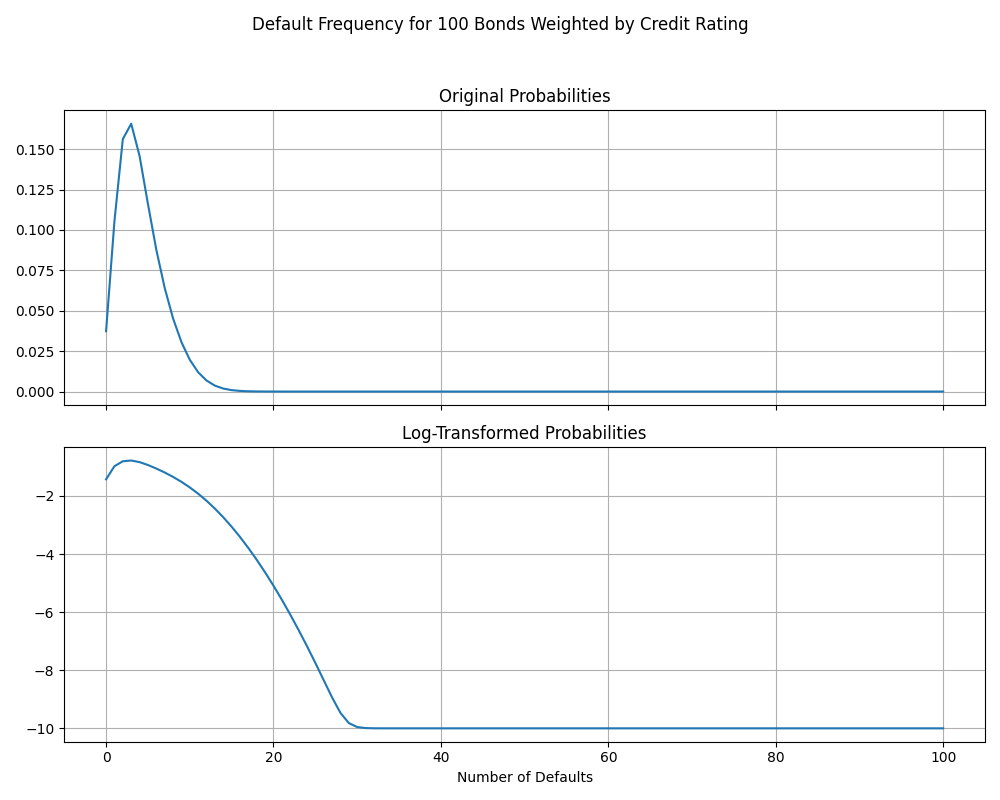
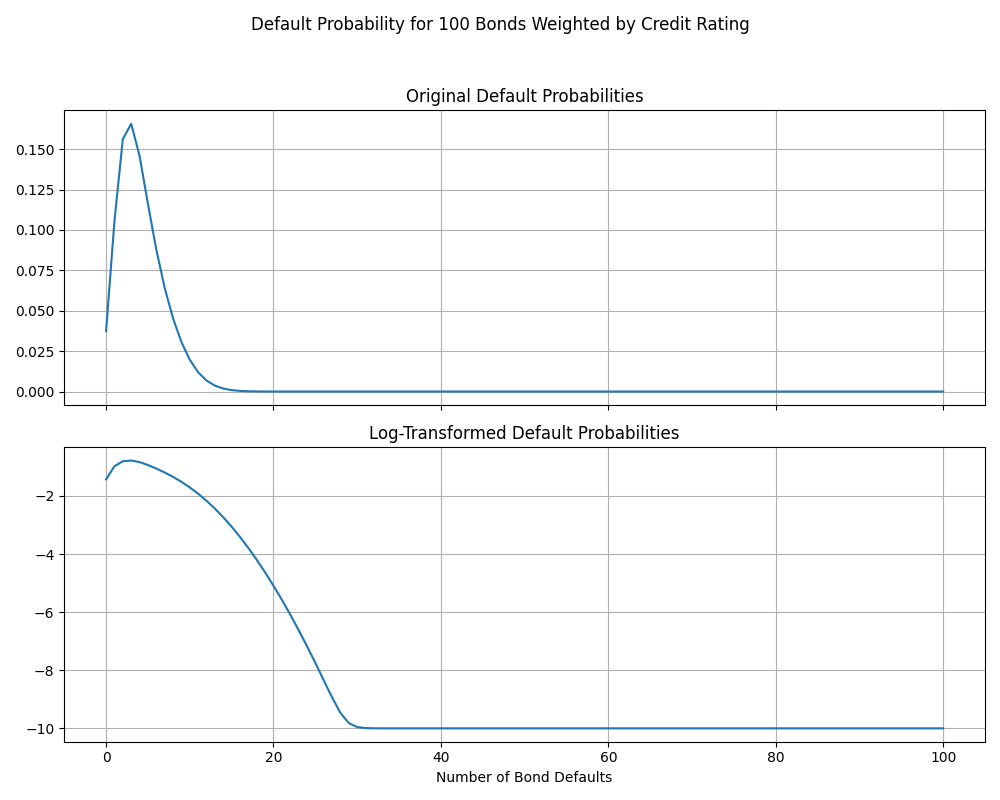
Updated BondDefaults Module and Output

diff --git a/BondDefaults.py b/BondDefaults.py
@@ -9,23 +9,21 @@ class BondDefaults:
         self.n_bonds = n_bonds
 
     def total_default_probability(self) -> list[tuple[int,float]]:
-        r_values = list(range(self.n_bonds + 1))
-        
-        #take weighted defaulty probability by segment
+        #aggregate default distributions by credit segment
+        r_values = list(range(self.n_bonds + 1))   
         segment_probabilities = []
         for key, value in self.portfolio.items():
             credit_segment_dist = [binom.pmf(r, self.n_bonds, value['default_rate']) * value['weight'] for r in r_values]
             default_tuples = list(zip(r_values, credit_segment_dist))
             segment_probabilities.append(default_tuples)
 
-        #reduce credit segments to find the total default distribution
+        #map and reduce credit segments by summation to find the total default distribution
         result = defaultdict(int)
         for sublist in segment_probabilities:
-            for key,value in sublist:
+            for key, value in sublist:
                 result[key] += value 
         reduced_list = sorted(result.items())
         return reduced_list
-
 
 if __name__ == "__main__":
     portfolio = {'AAA': {'weight': 0.40, 'default_rate': 0.025}, 'AA': {'weight': 0.30, 'default_rate': 0.04}, 
@@ -36,12 +34,12 @@ if __name__ == "__main__":
     x, y = zip(*default_probability)  
     fig, axs = plt.subplots(2, 1, figsize=(10, 8), sharex=True)
     axs[0].plot(x, y)
-    axs[0].set_title("Original Probabilities")
+    axs[0].set_title("Original Default Probabilities")
     axs[0].grid(True)
     axs[1].plot(x, np.log10(np.array(y) + 1e-10))
-    axs[1].set_title("Log-Transformed Probabilities")
+    axs[1].set_title("Log-Transformed Default Probabilities")
     axs[1].grid(True)
-    plt.xlabel("Number of Defaults")
-    plt.suptitle(f"Default Frequency for {n_bonds} Bonds Weighted by Credit Rating")
+    plt.xlabel("Number of Bond Defaults")
+    plt.suptitle(f"Default Probability for {n_bonds} Bonds Weighted by Credit Rating")
     plt.tight_layout(rect=[0, 0, 1, 0.95])
     plt.savefig("DefaultFrequency.png")
